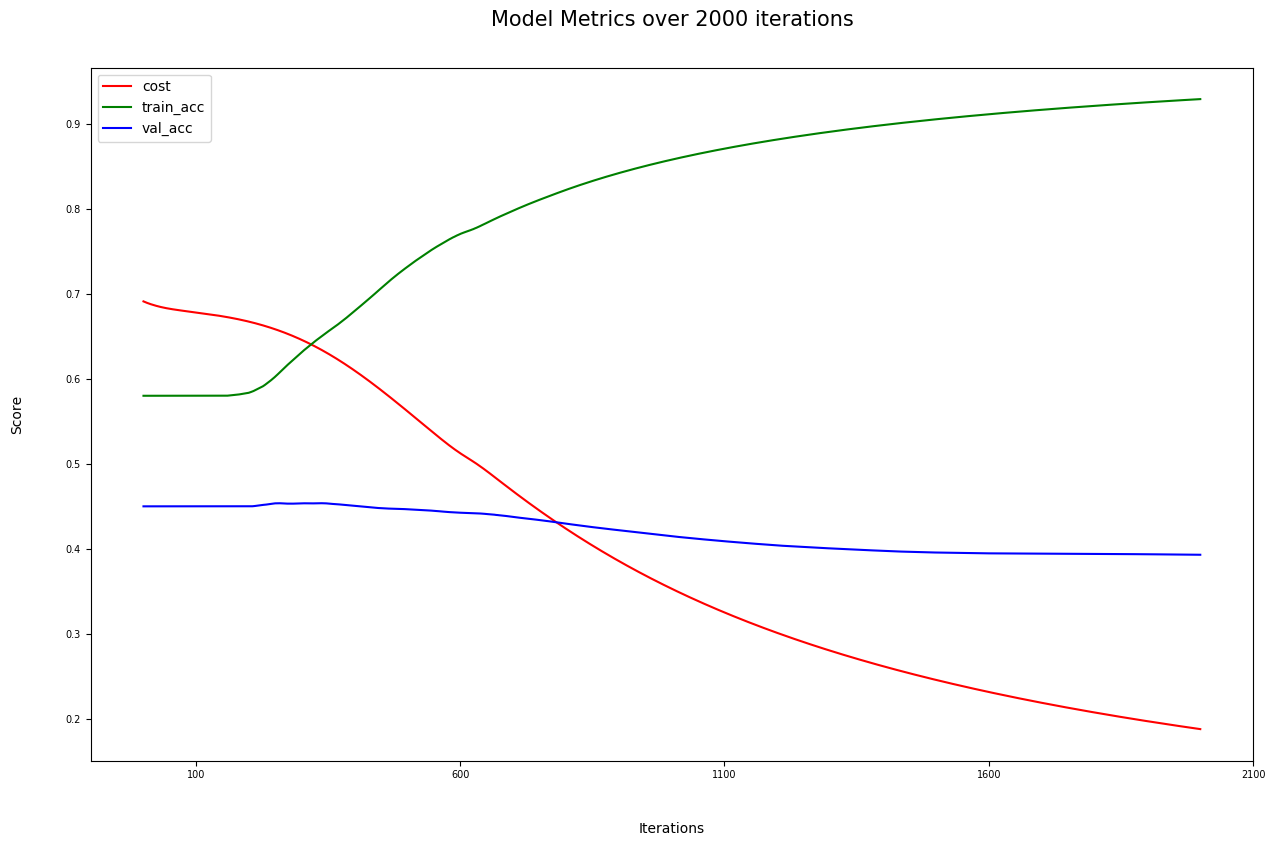
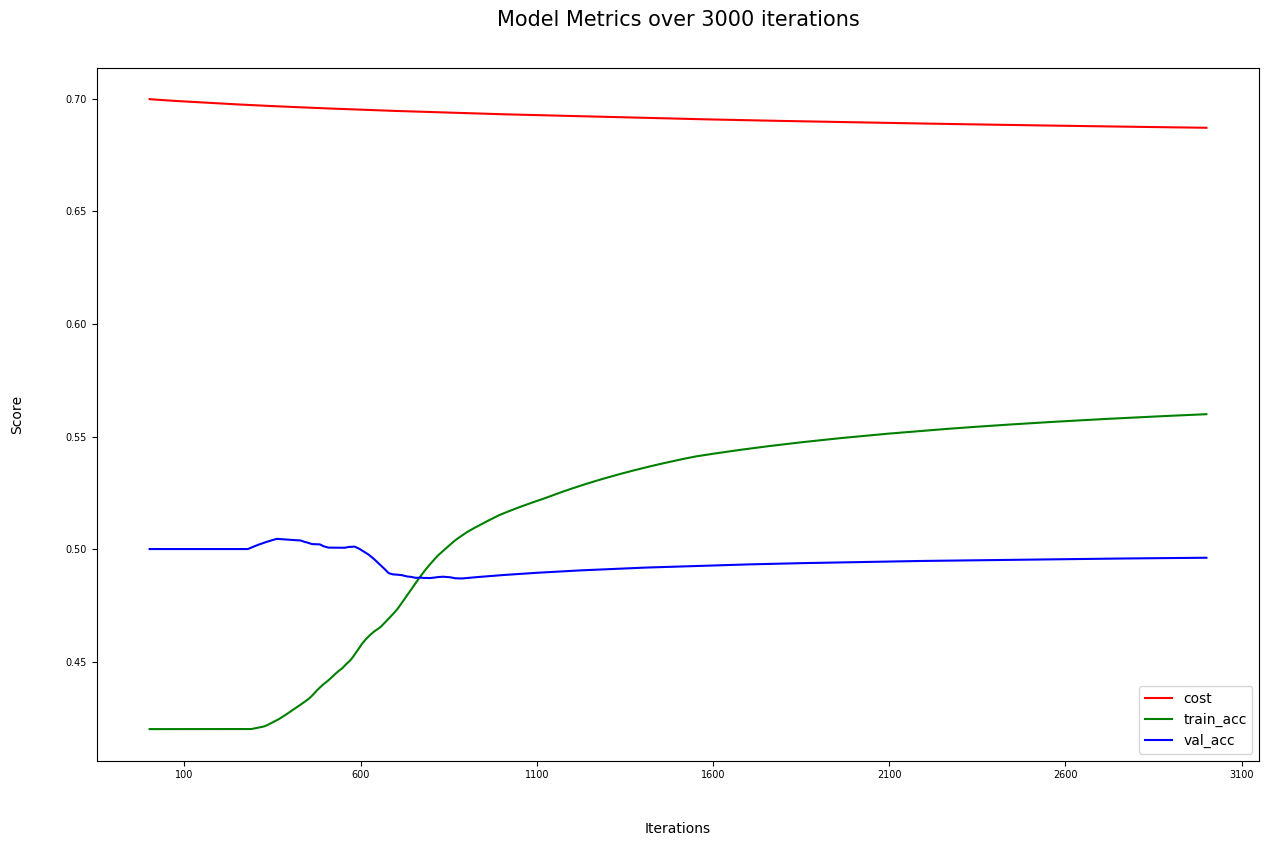
Major Bug Fixes in Optimizers (memory management)

diff --git a/src/test/test_network.c b/src/test/test_network.c
@@ -6,17 +6,17 @@ int main(){
   
   create_model();
   
-  int x_train_dims[] = {12288,2};
+  int x_train_dims[] = {12288,100};
   load_x_train(x_train_dims);
-  int x_cv_dims[] = {12288,1};
+  int x_cv_dims[] = {12288,50};
   load_x_cv(x_cv_dims);
-  int y_train_dims[] = {1,2};
+  int y_train_dims[] = {1,100};
   load_y_train(y_train_dims);
-  int y_cv_dims[] = {1,1};
+  int y_cv_dims[] = {1,50};
   load_y_cv(y_cv_dims);
   
-  int x_test_dims[] = {12288,1};
-  int y_test_dims[] = {1,1};
+  int x_test_dims[] = {12288,100};
+  int y_test_dims[] = {1,100};
 
   load_x_test(x_test_dims);
   load_y_test(y_test_dims);
@@ -25,17 +25,17 @@ int main(){
   // Dense(.layer_size=64,.activation="relu",.initializer="he",.layer_type="hidden",.dropout=0.5);
   Dense(.layer_size=32,.activation="relu",.initializer="he",.layer_type="hidden",.dropout=0.5);
   Dense(.layer_size=1,.activation="sigmoid",.initializer="random",.layer_type="output");
-  Model(.x_train=m->x_train,.Y_train=m->Y_train,.x_cv=m->x_cv,.Y_cv=m->Y_cv,.x_test=m->x_test,.Y_test=m->Y_test,.num_iter=2000,.learning_rate=0.007,.regularization="L2",.lambda=5e-4);
-  // m->fit();
+  Model(.x_train=m->x_train,.Y_train=m->Y_train,.x_cv=m->x_cv,.Y_cv=m->Y_cv,.x_test=m->x_test,.Y_test=m->Y_test,.num_iter=3000,.learning_rate=3e-4,.regularization="L2",.lambda=5e-4,.optimizer="adam");
+  m->fit();
   // m->save_model("DOGS_VS_CATS.t7");
-  // m->test();
-  m->load_model("DOGS_VS_CATS.t7");
+  m->test();
+  // m->load_model("DOGS_VS_CATS.t7");
   dARRAY * test_img1 = load_test_image("test_img1.data");
   dARRAY * test_img2 = load_test_image("test_img2.data");
   m->predict(test_img1);
   m->predict(test_img2);
   free2d(test_img1);
   free2d(test_img2);
-  // plot_train_scores();
+  plot_train_scores();
   destroy_model();
 }

diff --git a/src/optimizers/adagrad.c b/src/optimizers/adagrad.c
@@ -6,7 +6,7 @@ extern __Model__ * m;
 void adagrad(){
   Computation_Graph * temp = m->graph->next_layer;
   int layer=0;
-  while(temp!=NULL){
+  while(temp->next_layer->type!=LOSS){
     dARRAY * scaled_grads_dW = power(temp->DENSE->dW,2);
     dARRAY * scaled_grads_db = power(temp->DENSE->db,2);
     dARRAY * ptr_cache_dW = m->cache_dW[layer];
@@ -25,14 +25,18 @@ void adagrad(){
     dARRAY * div_factor_temp_db = power(m->cache_db[layer],0.5);
 
     dARRAY * div_factor_dW = addScalar(div_factor_temp_dW,m->epsilon);
-    dARRAY * div_factor_db = addScalar(div_factor_db,m->epsilon);
+    dARRAY * div_factor_db = addScalar(div_factor_temp_db,m->epsilon);
 
     free2d(div_factor_temp_dW);
     free2d(div_factor_temp_db);
     div_factor_temp_dW = div_factor_temp_db = NULL;
 
     dARRAY * mul_lr_w = mulScalar(temp->DENSE->dW,m->learning_rate);
-    dARRAY * mul_lr_b = mulScalar(temp->DENSE->bias,m->learning_rate);
+    dARRAY * mul_lr_b = mulScalar(temp->DENSE->db,m->learning_rate);
+
+    free2d(temp->DENSE->dW);
+    free2d(temp->DENSE->db);
+    temp->DENSE->dW = temp->DENSE->db = NULL;
 
     dARRAY * update_term_w = divison(mul_lr_w,div_factor_dW);
     dARRAY * update_term_b = divison(mul_lr_b,div_factor_db);
@@ -65,8 +69,7 @@ void adagrad(){
       free2d(temp->DENSE->dA);
     if(temp->DENSE->dZ!=NULL)
       free2d(temp->DENSE->dZ);
-    temp->DENSE->dA=temp->DENSE->cache = temp->DENSE->A = temp->DENSE->dropout_mask = temp->DENSE->dZ = NULL;
-    
+    temp->DENSE->dA = temp->DENSE->cache = temp->DENSE->A = temp->DENSE->dropout_mask = temp->DENSE->dZ = m->output = NULL;
     layer++;
     temp = temp->next_layer;
   }

diff --git a/src/optimizers/rmsprop.c b/src/optimizers/rmsprop.c
@@ -6,7 +6,7 @@ extern __Model__ * m;
 void RMSProp(){
   Computation_Graph * temp = m->graph->next_layer;
   int layer = 0;
-  while(temp!=NULL){
+  while(temp->next_layer->type!=LOSS){
     dARRAY * scaled_dW = power(temp->DENSE->dW,2);
     dARRAY * scaled_db = power(temp->DENSE->db,2);
 
@@ -58,7 +58,9 @@ void RMSProp(){
     free2d(div_factor_db);
     free2d(mul_lr_w);
     free2d(mul_lr_b);
-    div_factor_dW = div_factor_db = mul_lr_w = mul_lr_b = NULL;
+    free2d(temp->DENSE->dW);
+    free2d(temp->DENSE->db);
+    div_factor_dW = div_factor_db = mul_lr_w = mul_lr_b = temp->DENSE->dW = temp->DENSE->db = NULL;
 
     dARRAY * grad_W = temp->DENSE->weights;
     dARRAY * grad_b = temp->DENSE->bias;
@@ -82,7 +84,7 @@ void RMSProp(){
       free2d(temp->DENSE->dA);
     if(temp->DENSE->dZ!=NULL)
       free2d(temp->DENSE->dZ);
-    temp->DENSE->dA=temp->DENSE->cache = temp->DENSE->A = temp->DENSE->dropout_mask = temp->DENSE->dZ = NULL;
+    temp->DENSE->dA=temp->DENSE->cache = temp->DENSE->A = temp->DENSE->dropout_mask = temp->DENSE->dZ = m->output = NULL;
     
     layer++;
     temp = temp->next_layer;

diff --git a/src/optimizers/gradient_descent.c b/src/optimizers/gradient_descent.c
@@ -3,7 +3,7 @@
 
 extern __Model__ * m;
 
-void GD(double lr){
+void SGD(){
   Computation_Graph * temp = m->graph;
   dARRAY *layer_weights, *layer_biases, *grad_W, *grad_b;
   layer_weights = layer_biases = grad_W = grad_b = NULL;
@@ -34,7 +34,7 @@ void GD(double lr){
       grad_b = temp->DENSE->db;
 
       dARRAY * mul_lr_W = NULL;
-      mul_lr_W = mulScalar(grad_W,lr);
+      mul_lr_W = mulScalar(grad_W,m->learning_rate);
 
       if(m->lambda==0.0){
       // { printf("updating weights\n");
@@ -63,7 +63,7 @@ void GD(double lr){
       free2d(grad_W);
       
       dARRAY * mul_lr_b = NULL;
-      mul_lr_b = mulScalar(grad_b,lr);
+      mul_lr_b = mulScalar(grad_b,m->learning_rate);
 
       temp->DENSE->bias = NULL;
       temp->DENSE->bias = subtract(layer_biases,mul_lr_b);
@@ -75,7 +75,6 @@ void GD(double lr){
       if(temp->DENSE->dropout<1.0){
         free2d(temp->DENSE->dropout_mask);
       }
-
       if(temp->DENSE->A!=NULL){
         free2d(temp->DENSE->A);
       }

diff --git a/src/optimizers/adam.c b/src/optimizers/adam.c
@@ -6,7 +6,7 @@ extern __Model__ * m;
 void adam(){
   Computation_Graph * temp = m->graph->next_layer;
   int layer = 0;
-  while(temp!=NULL){
+  while(temp->next_layer->type!=LOSS){
     //calculate first momentum
     //m_dW
     double mul_factor = 1-m->beta1;
@@ -68,6 +68,10 @@ void adam(){
     free2d(term1);
     free2d(term2);
     term1 = term2 = NULL;
+    
+    free2d(temp->DENSE->dW);
+    free2d(temp->DENSE->db);
+    temp->DENSE->dW = temp->DENSE->db = NULL;
 
     double first_momentum_scaling_factor = 1-pow(m->beta1,m->time_step);
     double second_momentum_scaling_factor = 1-pow(m->beta2,m->time_step);

diff --git a/src/model/model.c b/src/model/model.c
@@ -217,7 +217,19 @@ void __fit__(){
       printf("\033[96m val_acc : \033[0m%lf\n",m->cross_val_accuracy);
     }
     __backward__();
-    GD(m->learning_rate);
+    if(!strcasecmp(m->optimizer,"adam")){
+      m->time_step += 1;
+      adam();
+    }
+    else if(!strcasecmp(m->optimizer,"rmsprop")){
+      RMSProp();
+    }
+    else if(!strcasecmp(m->optimizer,"adagrad")){
+      adagrad();
+    }
+    else if(!strcasecmp(m->optimizer,"sgd")){
+      SGD();
+    }
     i++;
   }
   append_to_file(train_cost_arr,"./bin/cost.data","ab+");

diff --git a/src/layers/Dense.c b/src/layers/Dense.c
@@ -299,11 +299,6 @@ void backward_pass_DENSE(){
       
       free2d(prev_layer_A_temp);
       prev_layer_A_temp = NULL; 
-
-      // printf("freeing mask\n");
-      // free2d(prev_layer->dropout_mask);
-      // prev_layer->dropout_mask = NULL;
-      // printf("freed mask\n");
       
       free2d(prev_layer_A_masked);
       prev_layer_A_masked = NULL;

diff --git a/src/neural_net/neural_net.h b/src/neural_net/neural_net.h
@@ -6,6 +6,9 @@
 #include "../utils/utils.h"
 #include "../loss_functions/cross_entropy_loss.h"
 #include "../optimizers/gradient_descent.h"
+#include "../optimizers/adam.h"
+#include "../optimizers/adagrad.h"
+#include "../optimizers/rmsprop.h"
 #include "../plot/plot.h"
 
 enum layer_type {NONE, INPUT, DENSE, LOSS, OPTIMIZER};

diff --git a/src/optimizers/gradient_descent.h b/src/optimizers/gradient_descent.h
@@ -6,7 +6,7 @@
 #ifdef __cplusplus
 extern "C"{
 #endif
-  void GD(double lr);
+  void SGD();
 #ifdef __cplusplus
 }
 #endif
